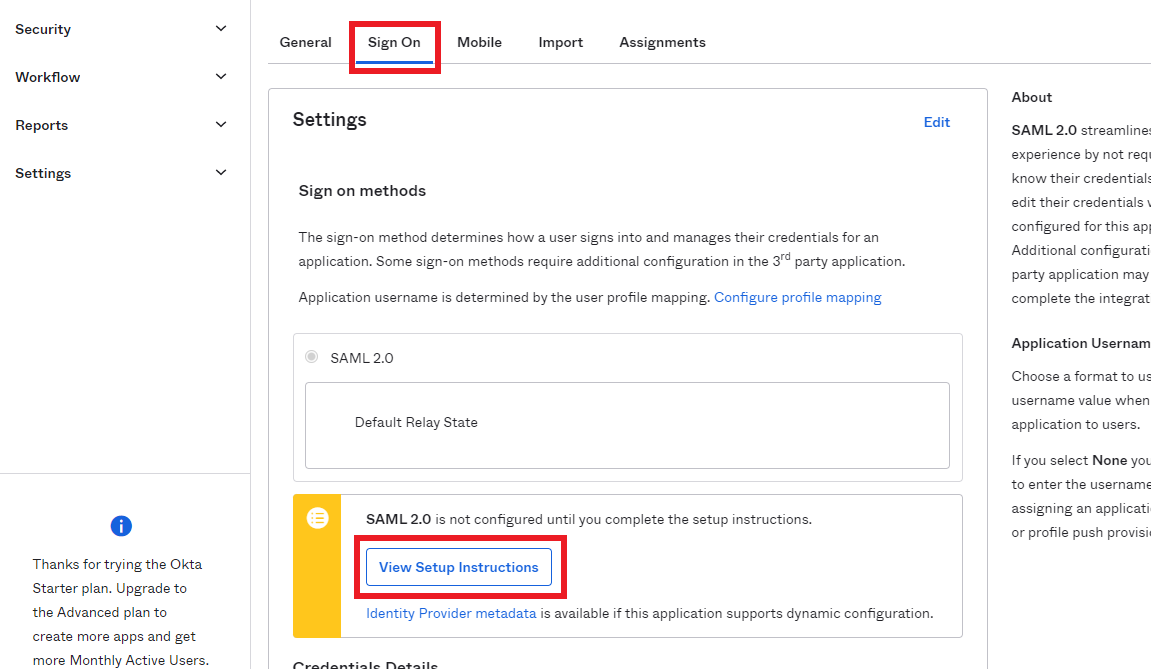
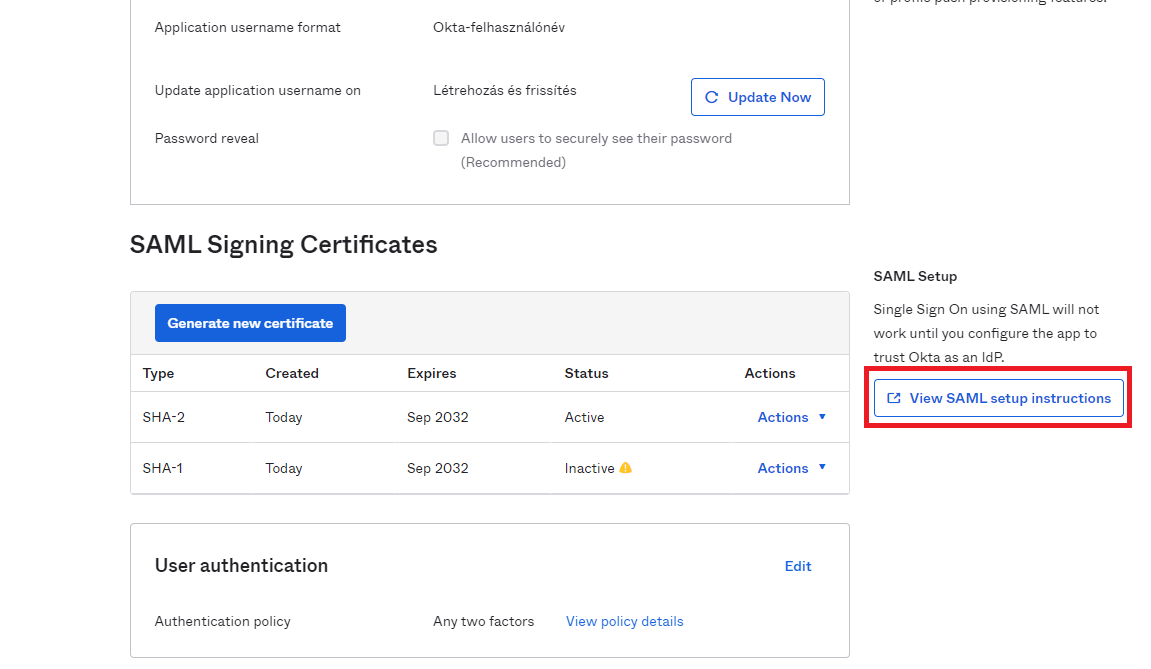
Updated Okta setup

diff --git a/website/docs/advanced/team-management/saml/identity-providers/okta.md b/website/docs/advanced/team-management/saml/identity-providers/okta.md
@@ -65,8 +65,12 @@ You can choose one of the following options to configure ConfigCat with SAML Ide
   <TabItem value="metadataUrl" label="Metadata URL" default>
     <ul>
       <li>
-        <p>Select the <code>Sign On</code> tab, and copy the URL of <code>Identity Provide metadata</code>.</p>
-        <img class="saml-tutorial-img" src="/docs/assets/saml/okta/metadata_url.png" alt="Okta metadata url" />
+        <p>Select the <code>Sign On</code> tab.</p>
+        <img class="saml-tutorial-img" src="/docs/assets/saml/okta/metadata_url1.png" alt="Okta sign on tab" />
+      </li>
+      <li>
+        <p>Copy the URL of <code>View IdP metadata</code>.</p>
+        <img class="saml-tutorial-img" src="/docs/assets/saml/okta/metadata_url2.png" alt="Okta metadata url" />
       </li>
       <li>
         <p>Paste the copied value into the <code>Metadata URL</code> field at ConfigCat.</p>
@@ -80,7 +84,7 @@ You can choose one of the following options to configure ConfigCat with SAML Ide
   <TabItem value="manual" label="Manual Configuration">
     <ul>
       <li>
-        <p>Select the <code>Sign On</code> tab, and click on <code>View Setup Instructions</code>.</p>
+        <p>Select the <code>Sign On</code> tab, and click on <code>View SAML setup instructions</code>.</p>
         <img class="saml-tutorial-img" src="/docs/assets/saml/okta/setup.png" alt="Okta SAML setup" />
       </li>
       <li>
